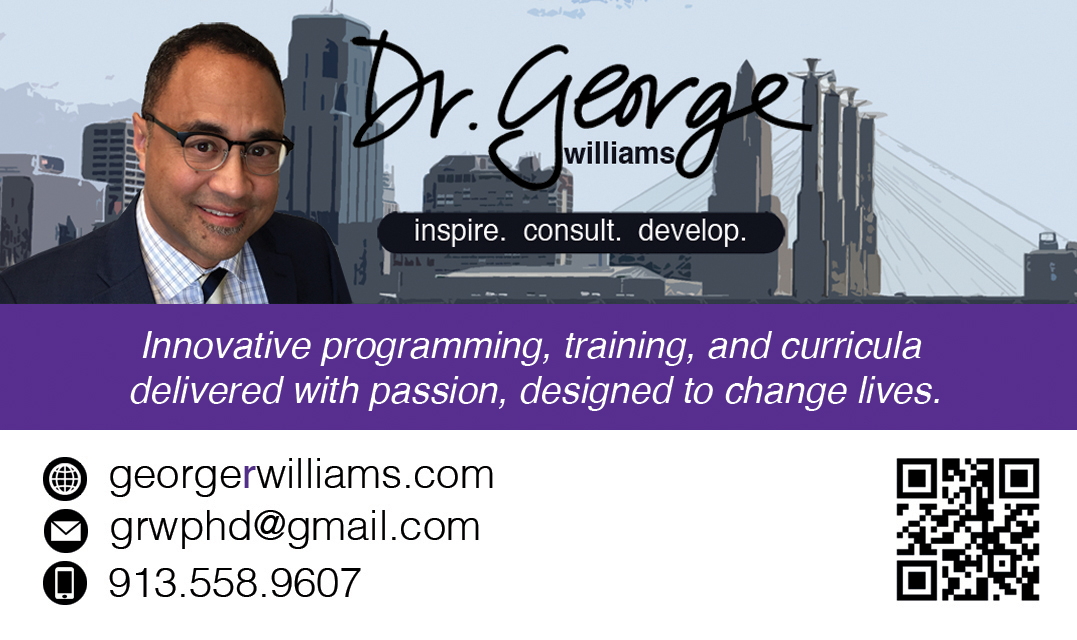
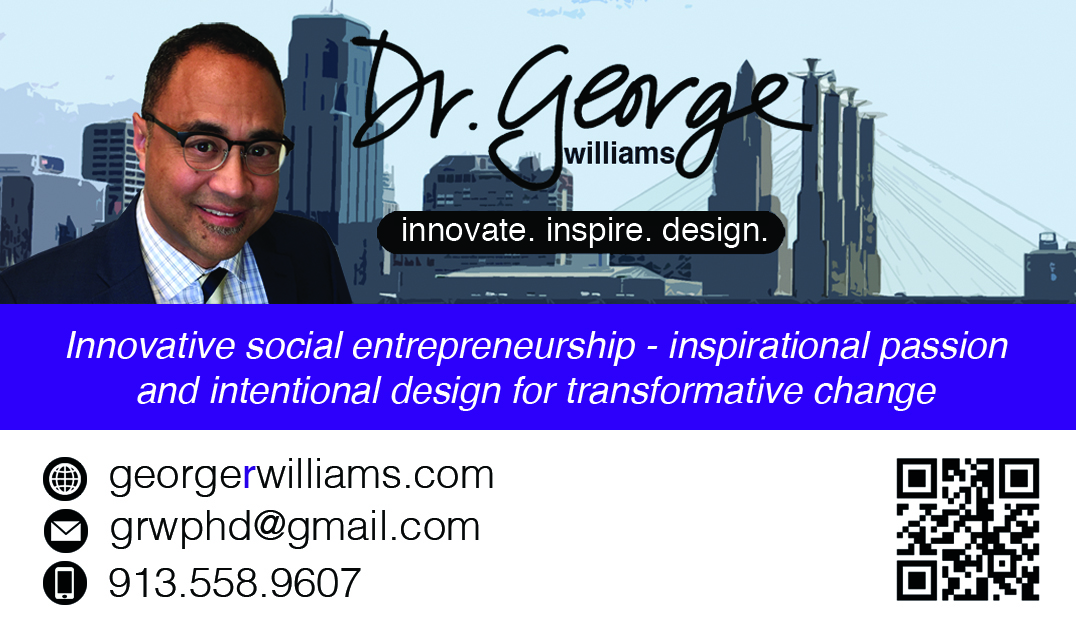
tag and card

diff --git a/index.html b/index.html
@@ -54,7 +54,7 @@ li a:hover:not(.active) {
           <li><a href="media/contact.html"><img src="pictures/email.png"></a></li>
     </ul>
     <div class="quote_background">
-        <div class="quote">Innovative programming, trainings, and curricula developed with passion, designed to change lives.</div>
+        <div class="quote">Innovative social entreprenuership - inspirational passion and intentional designed for transformative change.</div>
     </div>
     
     <div class="page">
